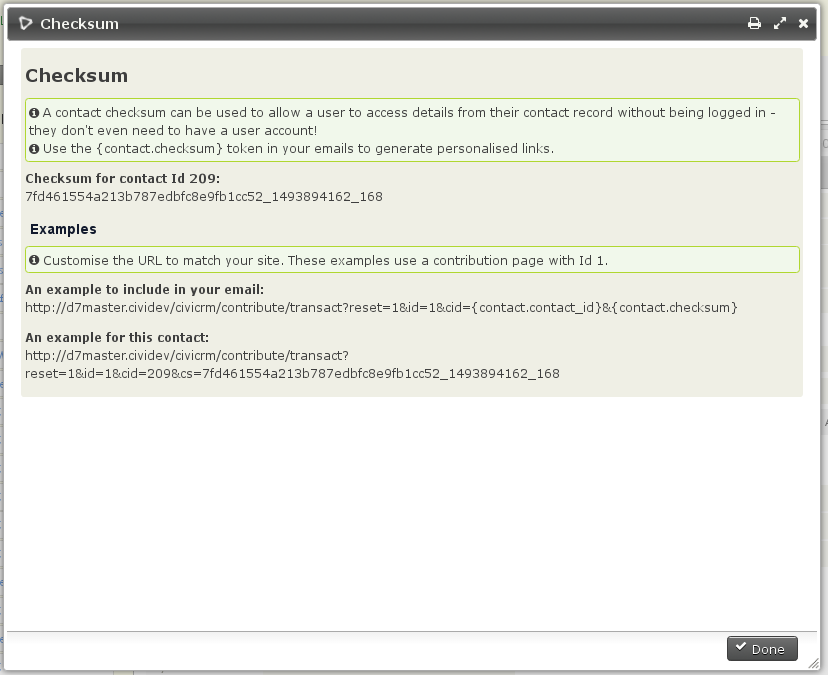
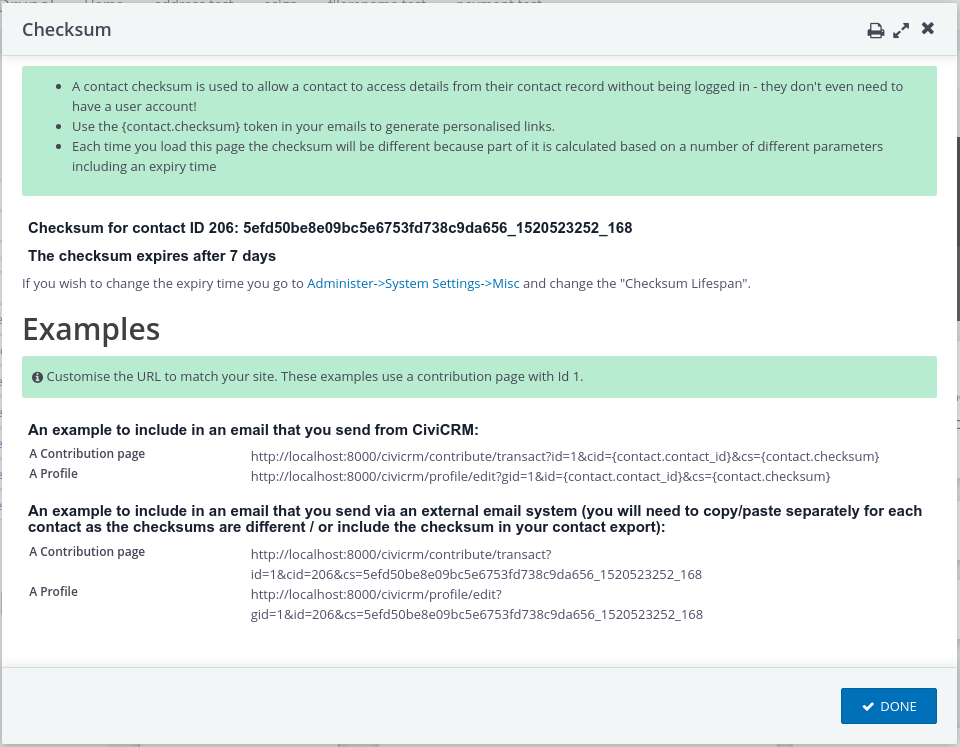
Update description on checksum form

diff --git a/CRM/Checksum/Form/Checksum.php b/CRM/Checksum/Form/Checksum.php
@@ -10,6 +10,7 @@ class CRM_Checksum_Form_Checksum extends CRM_Core_Form {
     $contactId = CRM_Utils_Array::value('cid', $_GET, 0);
 
     $this->assign('contactId', $contactId);
+    $this->assign('checksumExpiryDays', Civi::settings()->get('checksum_timeout'));
 
     if (!empty($contactId)) {
       $cs = CRM_Contact_BAO_Contact_Utils::generateChecksum($contactId);
